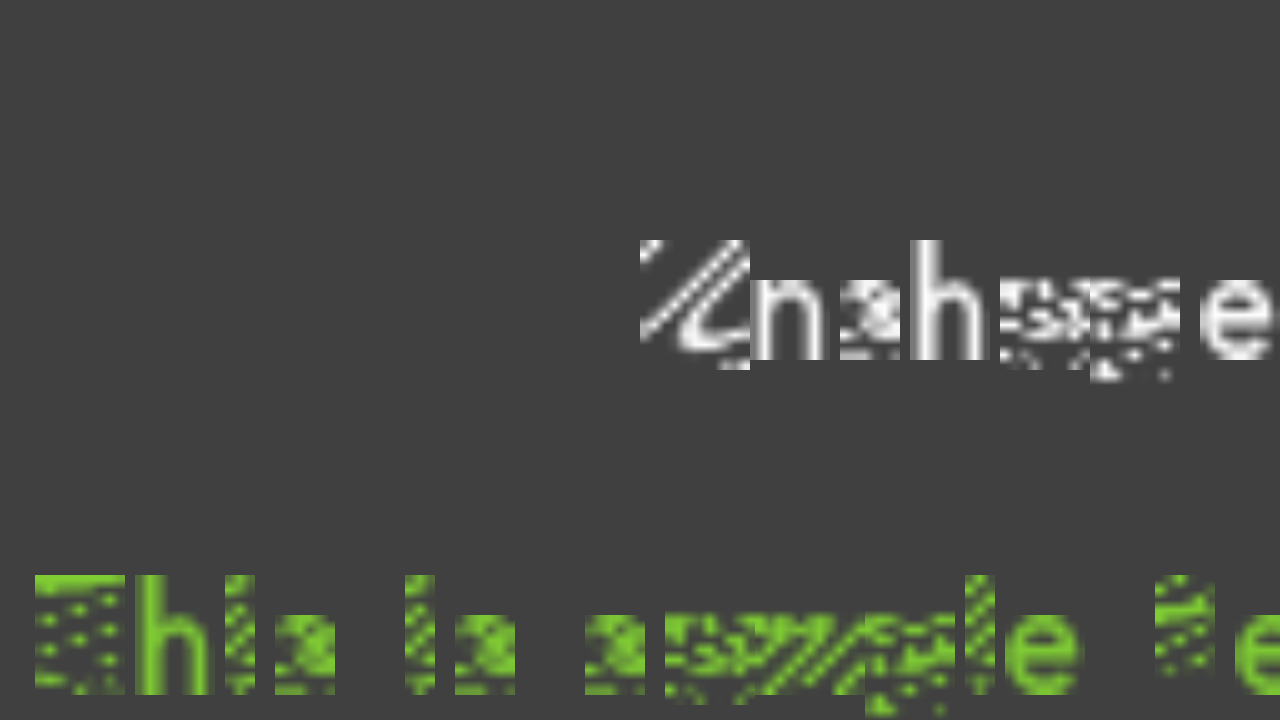
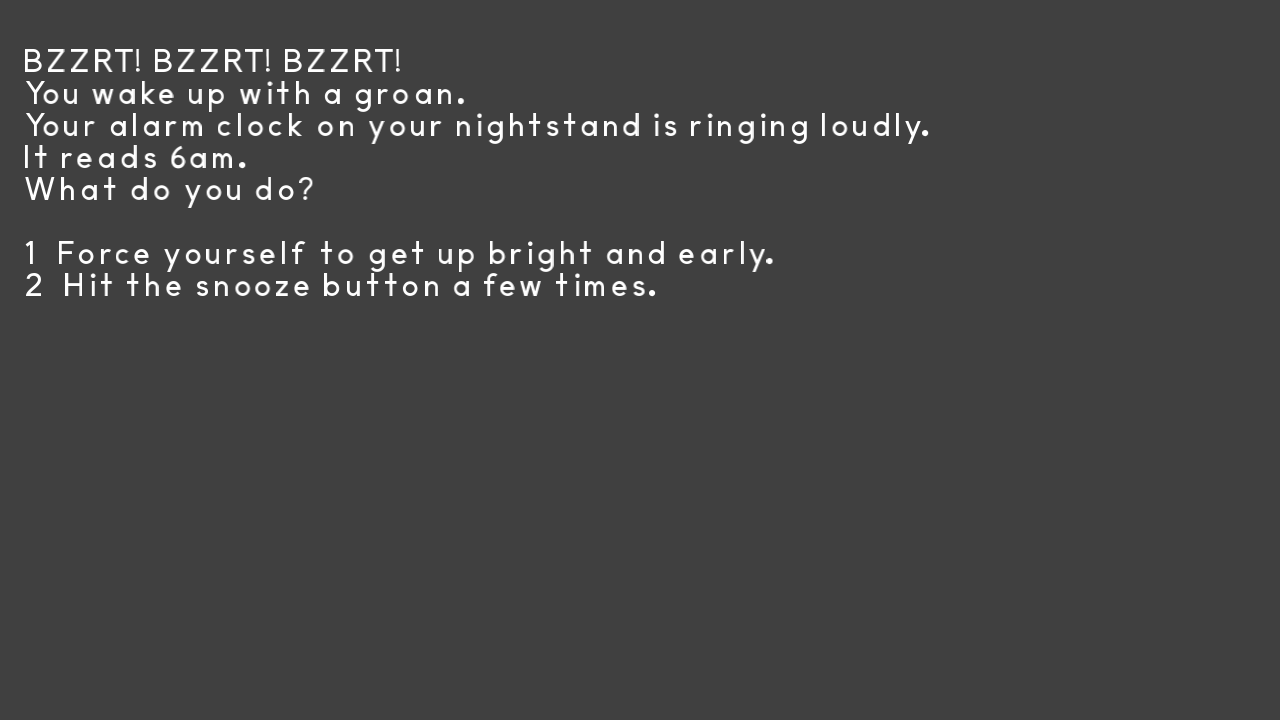
Update Readme, game title and screenshot

diff --git a/main.cpp b/main.cpp
@@ -54,7 +54,7 @@ int main(int argc, char **argv) {
 
 	//create window:
 	SDL_Window *window = SDL_CreateWindow(
-		"Text: choice-based game", //TODO: remember to set a title for your game!
+		"A Day at the Gym",
 		SDL_WINDOWPOS_UNDEFINED, SDL_WINDOWPOS_UNDEFINED,
 		1280, 720, //TODO: modify window size if you'd like
 		SDL_WINDOW_OPENGL

diff --git a/README.md b/README.md
@@ -1,10 +1,10 @@
-# (TODO: your game's title)
+# A Day at the Gym
 
-Author: (TODO: your name)
+Author: Tyler Thompson, Pavan Paravasthu
 
-Design: (TODO: In two sentences or fewer, describe what is new and interesting about your game.)
+Design: Take the role of a pro wrestler as he makes his daily visits to the gym. This is a short dating sim where you can date other pro wrestlers.
 
-Text Drawing: (TODO: how does the text drawing in this game work? Is text precomputed? Rendered at runtime? What files or utilities are involved?)
+Text Drawing: Text for the game is taken from a JSON file that is then processed using nlohmann's JSON library, and rendered using harfbuzz + freetype libraries.
 
 Screen Shot:
 
@@ -12,9 +12,11 @@ Screen Shot:
 
 How To Play:
 
-(TODO: describe the controls and (if needed) goals/strategy.)
+Press the corresponding number key on the keyboard to select the choice
 
-Sources: (TODO: list a source URL for any assets you did not create yourself. Make sure you have a license for the asset.)
+Sources: Fonts
+American Desktop.ttf : https://www.1001freefonts.com/american-desktop.font
+(Unused) SansitaSwashed : https://fonts.google.com/specimen/Sansita+Swashed?subset=latin#standard-styles
 
 This game was built with [NEST](NEST.md).
 
